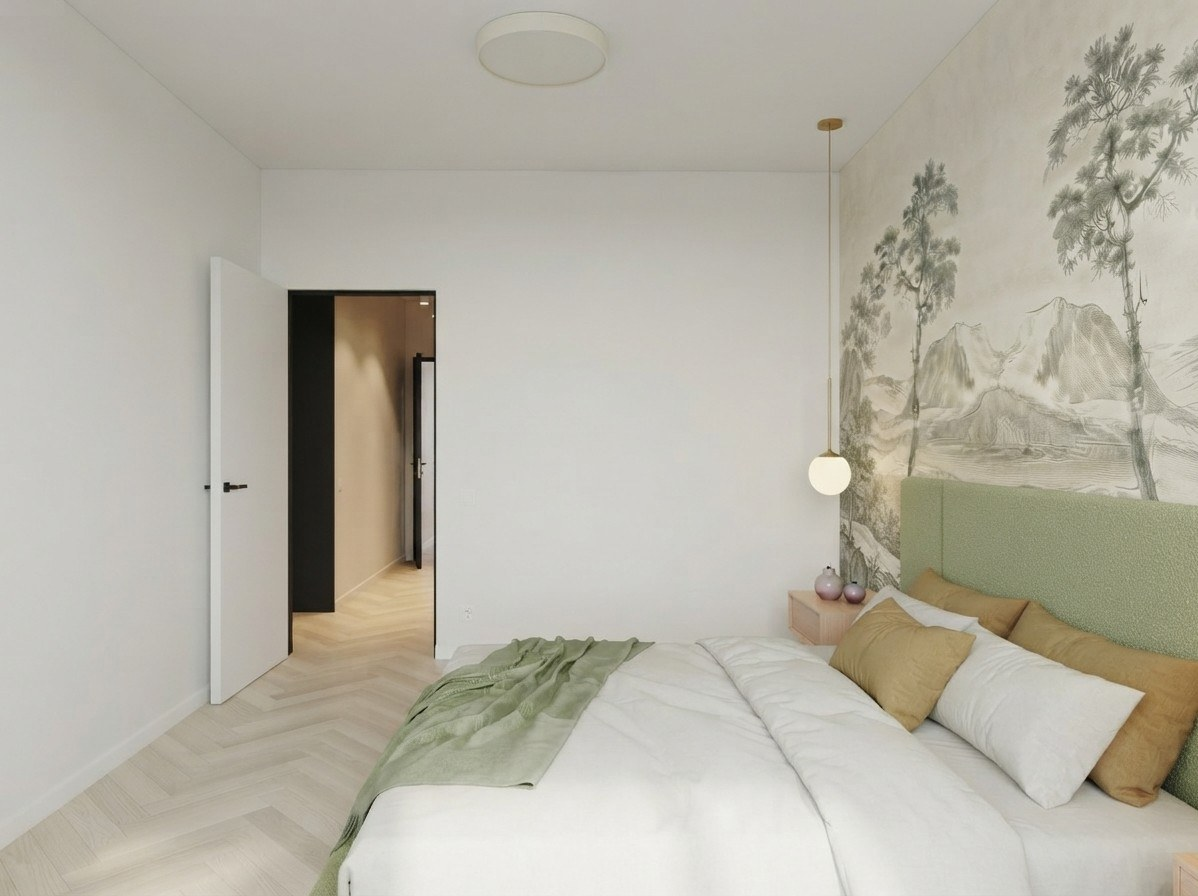
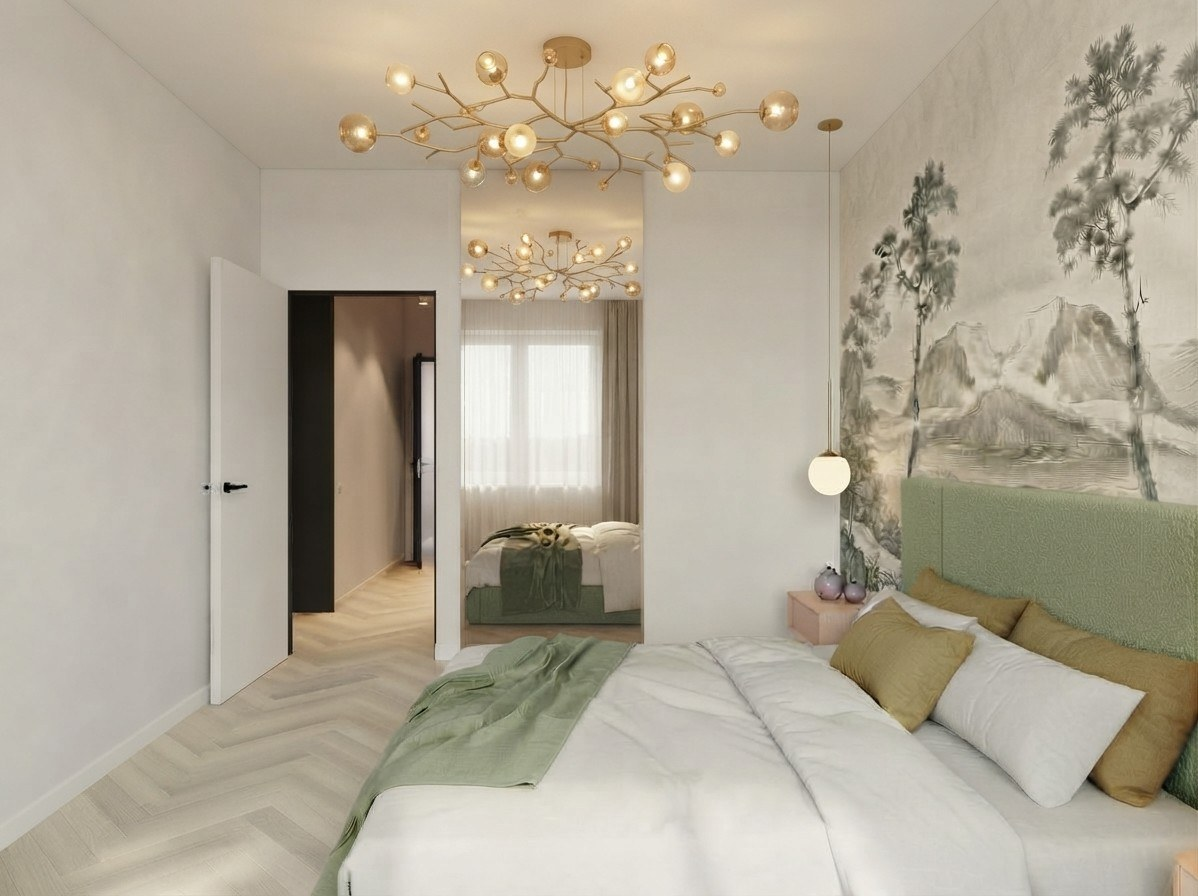
Bedroom door view with mirror
Claude-Session: https://claude.ai/code/session_01MbzakcTS9zrjW94ifsyEv2

diff --git a/interior/itog/index.html b/interior/itog/index.html
@@ -28,10 +28,10 @@ textarea{min-height:70px;resize:vertical;margin-top:10px}
 <h1>Квартира целиком</h1>
 <p class="lead">По вашим ответам собрали квартиру в одном стиле: белые стены, светлый дуб, шалфей и фисташка, охра и пыльная роза, без тёмных цветов, в санузлах — не больше трёх цветов. В каждой комнате выберите один вариант и напишите, что поправить — даже мелочи.</p>
 <p><input id="name" placeholder="Ваше имя" autocomplete="given-name"></p>
-<p class="status" id="status"></p><p class="status">Версия 26 · в санузлах терраццо — вариант A</p>
+<p class="status" id="status"></p><p class="status">Версия 27 · в санузлах терраццо — вариант A</p>
 <div id="rooms"></div></div>
 <div class="lb" id="lb" hidden><img id="lbImg" alt=""></div>
-<script id="data" type="application/json">[{"key": "gostinaya", "title": "Кухня-гостиная", "opts": [{"id": "v7-gostinaya-05", "src": "../img/v7-gostinaya-05.jpg", "w": 1195, "h": 896, "label": "A · Наша комната по фото: вид из прихожей на окно"}, {"id": "v7-gostinaya-02", "src": "../img/v7-gostinaya-02.jpg", "w": 1195, "h": 896, "label": "A · тот же вариант: вид на диван и окно"}, {"id": "v7-gostinaya-03", "src": "../img/v7-gostinaya-03.jpg", "w": 896, "h": 1195, "label": "A · тот же вариант: вид от окна на кухню и нишу"}, {"id": "v7-gostinaya-04", "src": "../img/v7-gostinaya-04.jpg", "w": 896, "h": 1195, "label": "A · тот же вариант: вид вдоль стены с ТВ"}, {"id": "v3-gostinaya-03", "src": "../img/v3-gostinaya-03.jpg", "label": "B · фисташковая кухня, розовый диван, стулья охра", "w": 1115, "h": 960}, {"id": "v3-gostinaya-04", "src": "../img/v3-gostinaya-04.jpg", "label": "C · дубовая кухня, шалфейный диван, розовые стулья", "w": 1115, "h": 960}, {"id": "v3-gostinaya-02", "src": "../img/v3-gostinaya-02.jpg", "label": "D · фисташковая кухня, розовый диван, стулья охра + роза", "w": 1115, "h": 960}]}, {"key": "spalnya", "title": "Спальня", "opts": [{"id": "v11-spalnya-01", "src": "../img/v11-spalnya-01.jpg", "label": "По реальному фото: фисташковая кровать, обои-гравюра, столик", "w": 1198, "h": 896}, {"id": "v11-spalnya-02", "src": "../img/v11-spalnya-02.jpg", "label": "По реальному фото: вид от окна на дверь", "w": 1198, "h": 896}, {"id": "v2-spalnya-03", "src": "../img/v2-spalnya-03.jpg", "label": "A · фисташковая кровать, стулья охра", "w": 1115, "h": 960}, {"id": "v2-spalnya-02", "src": "../img/v2-spalnya-02.jpg", "label": "B · розовая кровать", "w": 1376, "h": 768}, {"id": "v2-spalnya-01", "src": "../img/v2-spalnya-01.jpg", "label": "C · кровать из дуба, шкаф шалфей", "w": 1376, "h": 768}]}, {"key": "komnata", "title": "Комната", "opts": [{"id": "v8-komnata-01", "src": "../img/v8-komnata-01.jpg", "w": 1153, "h": 912, "label": "Наша детская по фото: вид от двери на окно"}, {"id": "v10-komnata-02", "src": "../img/v10-komnata-02.jpg", "label": "Вид от окна: кровать из букле, постер с надписями", "w": 1187, "h": 880}]}, {"key": "prihozhaya", "title": "Прихожая", "opts": [{"id": "v8-prihozhaya-01", "src": "../img/v8-prihozhaya-01.jpg", "w": 848, "h": 1229, "label": "A · Наша прихожая по фото: шкаф шалфей, зеркало до потолка"}, {"id": "v6-prihozhaya-01", "src": "../img/v6-prihozhaya-01.jpg", "w": 797, "h": 1152, "label": "B · шалфей, консоль из дуба, зеркало, светлый пол"}, {"id": "v6-prihozhaya-02", "src": "../img/v6-prihozhaya-02.jpg", "w": 863, "h": 1248, "label": "C · шалфей, полуовальное зеркало с подсветкой"}, {"id": "v6-prihozhaya-03", "src": "../img/v6-prihozhaya-03.jpg", "w": 863, "h": 1248, "label": "D · шкаф шалфей, белые стены, полоса шалфея за зеркалом"}, {"id": "v6-prihozhaya-04", "src": "../img/v6-prihozhaya-04.jpg", "w": 863, "h": 1248, "label": "E · шкаф шалфей, белые стены, полуовальное зеркало"}, {"id": "v2-prihozhaya-01", "src": "../img/v2-prihozhaya-01.jpg", "label": "F · фисташковый шкаф, мрамор", "w": 928, "h": 1152}, {"id": "v2-prihozhaya-04", "src": "../img/v2-prihozhaya-04.jpg", "label": "G · дубовый шкаф, ёлочка", "w": 928, "h": 1152}]}, {"key": "sanuzel", "title": "Большой санузел", "opts": [{"id": "v9-sanuzel-01", "src": "../img/v9-sanuzel-01.jpg", "label": "A · по реальному фото: терраццо и дуб", "w": 864, "h": 1207}, {"id": "v4-sanuzel-03", "src": "../img/v4-sanuzel-03.jpg", "label": "B · терраццо и дуб", "w": 1024, "h": 1024}, {"id": "v2-sanuzel-01", "src": "../img/v2-sanuzel-01.jpg", "label": "C · белый, дуб и розовая плитка", "w": 1024, "h": 1024}, {"id": "v2-sanuzel-02", "src": "../img/v2-sanuzel-02.jpg", "label": "D · белый, дуб и фисташковая плитка", "w": 1024, "h": 1024}]}, {"key": "malyy", "title": "Малый санузел", "opts": [{"id": "v9-malyy-01", "src": "../img/v9-malyy-01.jpg", "label": "A · по реальному фото: дуб, терраццо, чёрная фурнитура", "w": 896, "h": 1195}, {"id": "v4-malyy-01", "src": "../img/v4-malyy-01.jpg", "label": "B · терраццо и дуб", "w": 928, "h": 1152}, {"id": "v2-malyy-03", "src": "../img/v2-malyy-03.jpg", "label": "C · белый, дуб и зелёная плитка", "w": 922, "h": 1152}]}]</script>
+<script id="data" type="application/json">[{"key": "gostinaya", "title": "Кухня-гостиная", "opts": [{"id": "v7-gostinaya-05", "src": "../img/v7-gostinaya-05.jpg", "w": 1195, "h": 896, "label": "A · Наша комната по фото: вид из прихожей на окно"}, {"id": "v7-gostinaya-02", "src": "../img/v7-gostinaya-02.jpg", "w": 1195, "h": 896, "label": "A · тот же вариант: вид на диван и окно"}, {"id": "v7-gostinaya-03", "src": "../img/v7-gostinaya-03.jpg", "w": 896, "h": 1195, "label": "A · тот же вариант: вид от окна на кухню и нишу"}, {"id": "v7-gostinaya-04", "src": "../img/v7-gostinaya-04.jpg", "w": 896, "h": 1195, "label": "A · тот же вариант: вид вдоль стены с ТВ"}, {"id": "v3-gostinaya-03", "src": "../img/v3-gostinaya-03.jpg", "label": "B · фисташковая кухня, розовый диван, стулья охра", "w": 1115, "h": 960}, {"id": "v3-gostinaya-04", "src": "../img/v3-gostinaya-04.jpg", "label": "C · дубовая кухня, шалфейный диван, розовые стулья", "w": 1115, "h": 960}, {"id": "v3-gostinaya-02", "src": "../img/v3-gostinaya-02.jpg", "label": "D · фисташковая кухня, розовый диван, стулья охра + роза", "w": 1115, "h": 960}]}, {"key": "spalnya", "title": "Спальня", "opts": [{"id": "v11-spalnya-01", "src": "../img/v11-spalnya-01.jpg", "label": "По реальному фото: фисташковая кровать, обои-гравюра, столик", "w": 1198, "h": 896}, {"id": "v11-spalnya-02", "src": "../img/v11-spalnya-02.jpg", "label": "По реальному фото: вид на дверь, зеркало в пол", "w": 1198, "h": 896}, {"id": "v2-spalnya-03", "src": "../img/v2-spalnya-03.jpg", "label": "A · фисташковая кровать, стулья охра", "w": 1115, "h": 960}, {"id": "v2-spalnya-02", "src": "../img/v2-spalnya-02.jpg", "label": "B · розовая кровать", "w": 1376, "h": 768}, {"id": "v2-spalnya-01", "src": "../img/v2-spalnya-01.jpg", "label": "C · кровать из дуба, шкаф шалфей", "w": 1376, "h": 768}]}, {"key": "komnata", "title": "Комната", "opts": [{"id": "v8-komnata-01", "src": "../img/v8-komnata-01.jpg", "w": 1153, "h": 912, "label": "Наша детская по фото: вид от двери на окно"}, {"id": "v10-komnata-02", "src": "../img/v10-komnata-02.jpg", "label": "Вид от окна: кровать из букле, постер с надписями", "w": 1187, "h": 880}]}, {"key": "prihozhaya", "title": "Прихожая", "opts": [{"id": "v8-prihozhaya-01", "src": "../img/v8-prihozhaya-01.jpg", "w": 848, "h": 1229, "label": "A · Наша прихожая по фото: шкаф шалфей, зеркало до потолка"}, {"id": "v6-prihozhaya-01", "src": "../img/v6-prihozhaya-01.jpg", "w": 797, "h": 1152, "label": "B · шалфей, консоль из дуба, зеркало, светлый пол"}, {"id": "v6-prihozhaya-02", "src": "../img/v6-prihozhaya-02.jpg", "w": 863, "h": 1248, "label": "C · шалфей, полуовальное зеркало с подсветкой"}, {"id": "v6-prihozhaya-03", "src": "../img/v6-prihozhaya-03.jpg", "w": 863, "h": 1248, "label": "D · шкаф шалфей, белые стены, полоса шалфея за зеркалом"}, {"id": "v6-prihozhaya-04", "src": "../img/v6-prihozhaya-04.jpg", "w": 863, "h": 1248, "label": "E · шкаф шалфей, белые стены, полуовальное зеркало"}, {"id": "v2-prihozhaya-01", "src": "../img/v2-prihozhaya-01.jpg", "label": "F · фисташковый шкаф, мрамор", "w": 928, "h": 1152}, {"id": "v2-prihozhaya-04", "src": "../img/v2-prihozhaya-04.jpg", "label": "G · дубовый шкаф, ёлочка", "w": 928, "h": 1152}]}, {"key": "sanuzel", "title": "Большой санузел", "opts": [{"id": "v9-sanuzel-01", "src": "../img/v9-sanuzel-01.jpg", "label": "A · по реальному фото: терраццо и дуб", "w": 864, "h": 1207}, {"id": "v4-sanuzel-03", "src": "../img/v4-sanuzel-03.jpg", "label": "B · терраццо и дуб", "w": 1024, "h": 1024}, {"id": "v2-sanuzel-01", "src": "../img/v2-sanuzel-01.jpg", "label": "C · белый, дуб и розовая плитка", "w": 1024, "h": 1024}, {"id": "v2-sanuzel-02", "src": "../img/v2-sanuzel-02.jpg", "label": "D · белый, дуб и фисташковая плитка", "w": 1024, "h": 1024}]}, {"key": "malyy", "title": "Малый санузел", "opts": [{"id": "v9-malyy-01", "src": "../img/v9-malyy-01.jpg", "label": "A · по реальному фото: дуб, терраццо, чёрная фурнитура", "w": 896, "h": 1195}, {"id": "v4-malyy-01", "src": "../img/v4-malyy-01.jpg", "label": "B · терраццо и дуб", "w": 928, "h": 1152}, {"id": "v2-malyy-03", "src": "../img/v2-malyy-03.jpg", "label": "C · белый, дуб и зелёная плитка", "w": 922, "h": 1152}]}]</script>
 <script>
 const FORM_ACTION='https://docs.google.com/forms/d/e/1FAIpQLSf0fpu6bYX8AfbI0DWtXiViWGJpiZCAC7_vtrAKPLAi6q84wA/formResponse', FORM_ENTRY='entry.2073883489';
 const ROOMS=JSON.parse(document.getElementById('data').textContent), $=id=>document.getElementById(id);
